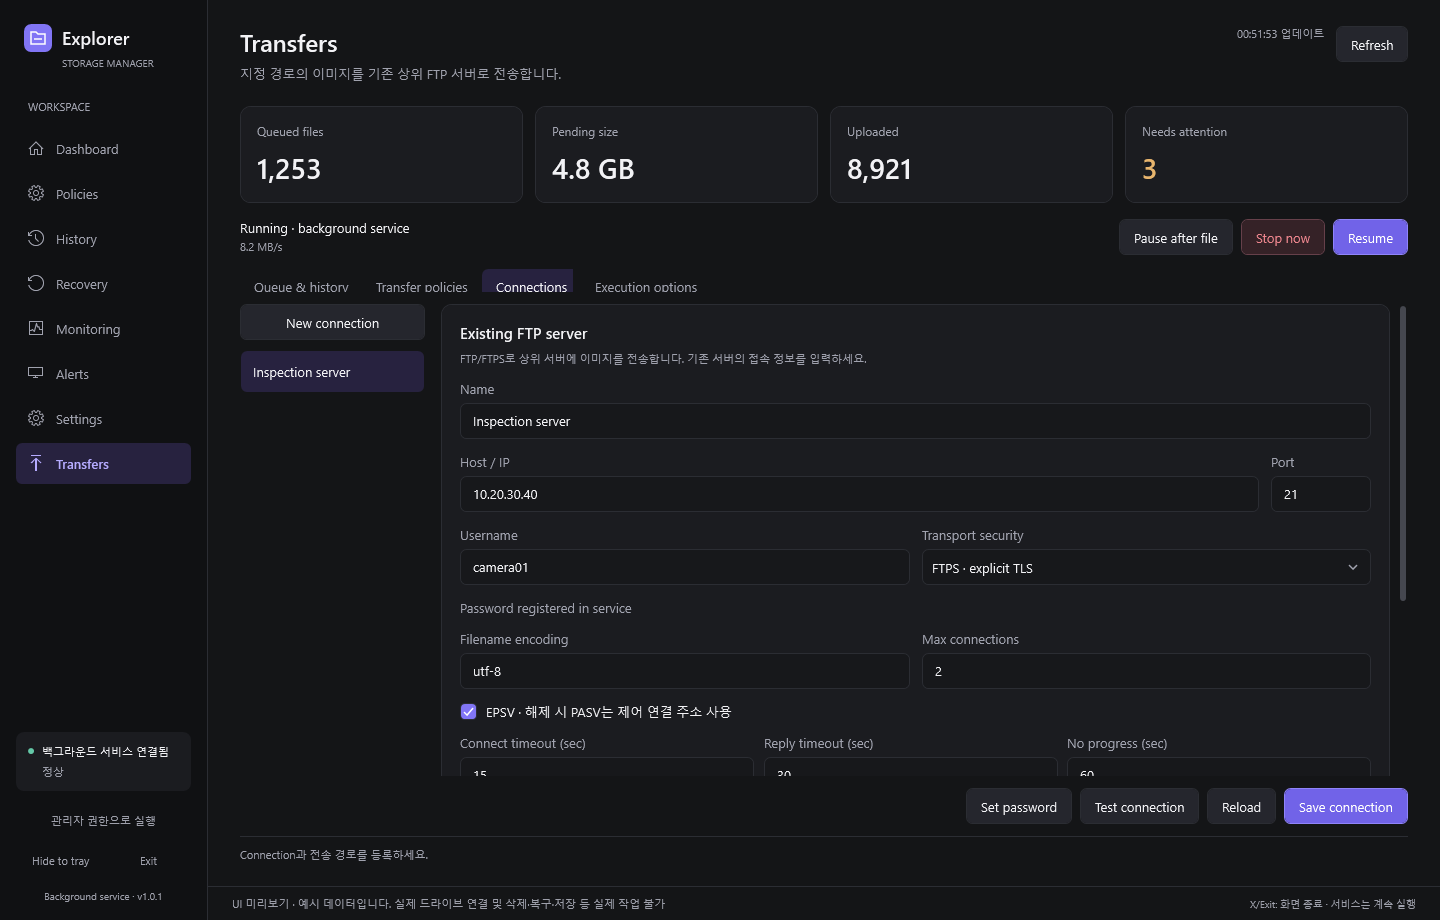
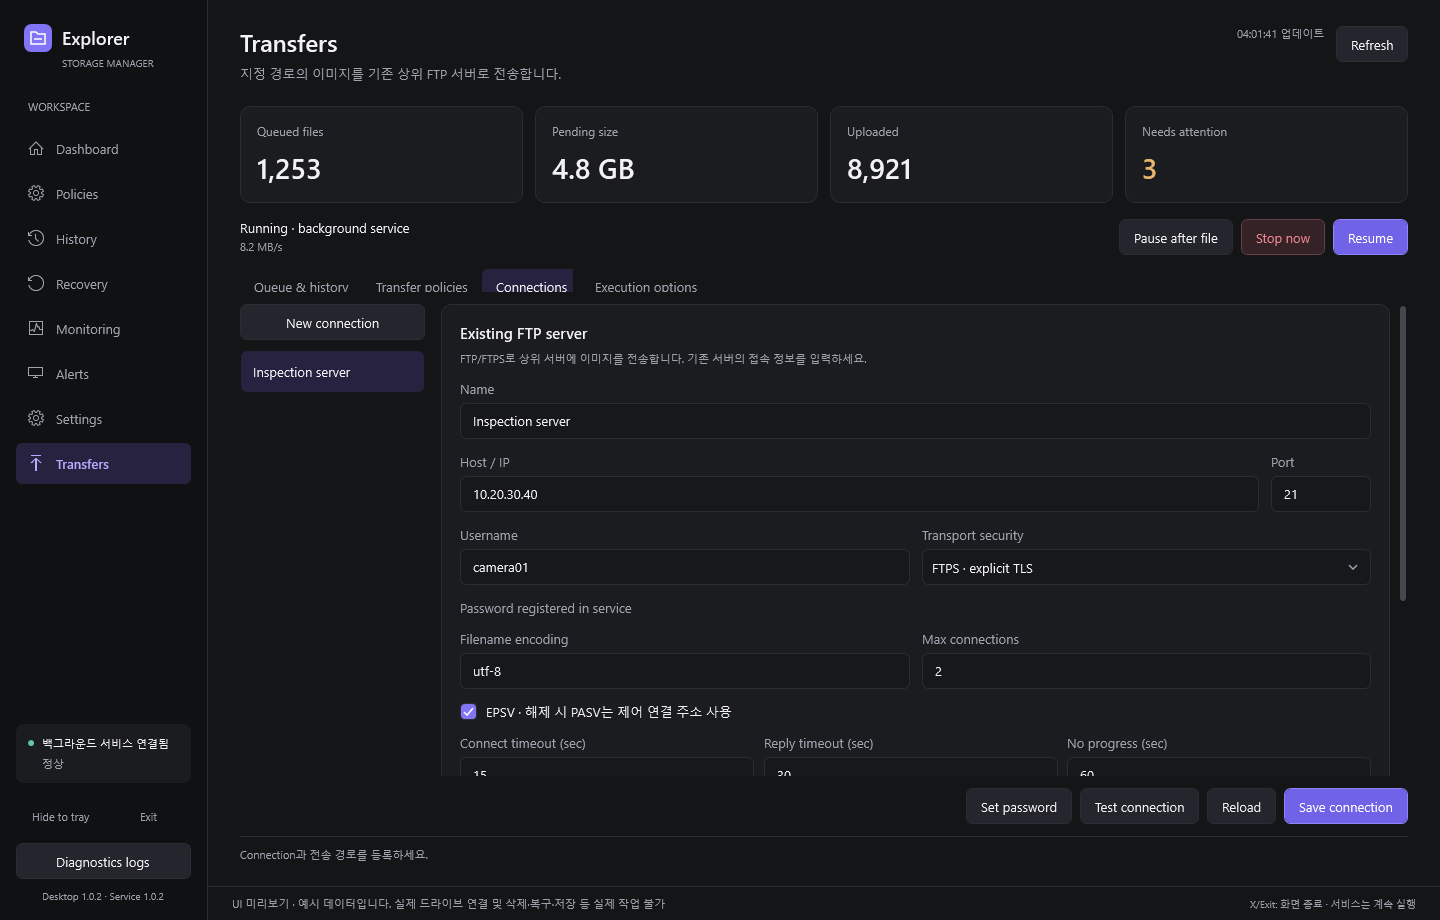
Document verified 1.0.2 upgrade and live desktop workflows [skip ci]

Changed region(s): [[0.0, 0.8826, 0.1562, 1.0], [0.0312, 0.7913, 0.125, 0.8522]]

diff --git a/README.md b/README.md
@@ -8,7 +8,7 @@ Dashboard·Policies·History·Recovery·Monitoring·Alerts·Settings·Transfers 
 
 ![Explorer Manager 개요](docs/images/overview.png)
 
-[Policies](docs/images/policies.png) · [Monitoring](docs/images/monitoring.png) · [Settings](docs/images/settings.png) · [Transfers](docs/images/transfers.png) · [UI 설계](docs/02-design/features/ui-refresh.design.md) · [검증 결과와 패키지](https://github.com/dmjeong/HardDisk-Manager/actions/runs/40428806793)
+[Policies](docs/images/policies.png) · [Monitoring](docs/images/monitoring.png) · [Settings](docs/images/settings.png) · [Transfers](docs/images/transfers.png) · [UI 설계](docs/02-design/features/ui-refresh.design.md) · [검증 결과와 패키지](https://github.com/dmjeong/HardDisk-Manager/actions/runs/40447002247)
 
 ## 실행 구성
 
@@ -98,7 +98,7 @@ CPU 사용률, 가용 RAM, 볼륨 용량, 디스크 읽기·쓰기 처리량/IOP
 
 Windows에서 Visual Studio 2022의 **.NET 데스크톱 개발** 구성과 **.NET Framework 4.8 SDK/타기팅 팩**을 설치합니다. 모든 프로젝트는 기존 .NET Framework 프로젝트 형식이며, .NET 8 런타임·SDK·타기팅 팩을 요구하지 않습니다. NuGet 패키지는 프로젝트를 처음 열 때 복원합니다.
 
-`ExplorerManager.sln`을 열고 `ExplorerManager.Desktop`을 시작 프로젝트로 지정합니다. F5 빌드는 Service/SensorHost와 Setup 파일도 준비합니다. 서비스가 없으면 실제 로컬 볼륨·CPU·RAM을 읽기 전용으로 보여 주며 **서비스 설치/시작**에서 관리자 실행과 설치를 진행할 수 있습니다. 정책 저장·정리·복구는 서비스 연결 후 동작합니다. 실행 중 서비스에 대한 연결 버튼은 서비스를 재설치하거나 RAM 캐시를 지우지 않습니다.
+Visual Studio를 관리자 권한으로 실행한 뒤 `ExplorerManager.sln`을 열고 `ExplorerManager.Desktop`을 시작 프로젝트로 지정합니다. F5 빌드는 Service/SensorHost와 Setup 파일도 준비합니다. 서비스가 없으면 실제 로컬 볼륨·CPU·RAM을 읽기 전용으로 보여 주며 **서비스 설치/시작**에서 관리자 실행과 설치를 진행할 수 있습니다. 정책 저장·정리·복구는 서비스 연결 후 동작합니다. 실행 중 서비스에 대한 연결 버튼은 서비스를 재설치하거나 RAM 캐시를 지우지 않습니다.
 
 개발자 PowerShell에서 솔루션 빌드와 .NET Framework 시험을 실행합니다. 시험 실행에는 Visual Studio Test Explorer/Test Tools가 필요합니다.
 
@@ -114,7 +114,7 @@ Windows에서 Visual Studio 2022의 **.NET 데스크톱 개발** 구성과 **.NE
 3. 이전 평가 결과가 남아 있으면 `.vs`와 각 프로젝트의 `bin`·`obj`를 지우고 솔루션을 다시 엽니다.
 4. NuGet 패키지 복원 후 다시 빌드합니다. .NET Framework 4.8 **개발 팩**은 런타임과 별개이므로 설치 관리자에서 확인합니다.
 
-솔루션의 모든 앱·라이브러리·시험 대상은 .NET Framework 4.8/x64입니다. CI는 .NET SDK 경로를 비활성화한 상태에서 Framework MSBuild로 빌드하고, 243개 시험, WPF 디자인 시점 참조 평가, 실제 NTFS 삭제·복구, 서비스 설치·IPC·8개 WPF 메뉴와 전송 내부 설정 화면의 기본/최소 크기 및 예시 데이터 렌더45장·제거 시험을 실행합니다. 실행 패키지는 `artifacts/ExplorerManager-win-x64.zip`입니다. 코드 서명은 `Build.ps1 -CertificateThumbprint ...`로 보유 인증서를 지정할 때 적용됩니다. 기본 CI 패키지는 서명되지 않습니다.
+솔루션의 모든 앱·라이브러리·시험 대상은 .NET Framework 4.8/x64입니다. CI는 .NET SDK 경로를 비활성화한 상태에서 Framework MSBuild로 빌드하고, 246개 시험, WPF 디자인 시점 참조 평가, 실제 NTFS 삭제·복구, 서비스 설치·IPC·8개 WPF 메뉴와 전송 내부 설정 화면의 기본/최소 크기 및 예시 데이터 렌더45장·제거 시험을 실행합니다. 실행 패키지는 `artifacts/ExplorerManager-win-x64.zip`입니다. 코드 서명은 `Build.ps1 -CertificateThumbprint ...`로 보유 인증서를 지정할 때 적용됩니다. 기본 CI 패키지는 서명되지 않습니다.
 
 ## 운영과 문서
 
@@ -124,7 +124,7 @@ Windows에서 Visual Studio 2022의 **.NET 데스크톱 개발** 구성과 **.NE
 - [기존 FTP/FTPS 서버 연동 상세 설계](docs/02-design/features/image-transfer.design.md)
 - [이미지 전송 구현·검증 결과](docs/04-report/image-transfer.report.md)
 - [운영 매뉴얼](docs/operations.md)
-- [Desktop 1.0.1 기본 동작 수정과 실제 UI 검증](docs/04-report/desktop-reliability.report.md)
+- [Desktop 1.0.2 수정·업데이트와 실제 UI 검증](docs/04-report/desktop-reliability.report.md)
 - [구현·검증 현황](docs/implementation-status.md)
 - [제3자 라이선스](THIRD-PARTY-NOTICES.md)
 

diff --git a/docs/04-report/desktop-reliability.report.md b/docs/04-report/desktop-reliability.report.md
@@ -1,4 +1,45 @@
-# Desktop 1.0.1 수정 결과
+# Desktop 1.0.2 수정 및 실제 설치 검증
+
+2026-10-27 · 검증 코드 `0534ab9` · [Windows CI](https://github.com/dmjeong/HardDisk-Manager/actions/runs/40447002247)
+
+사용자가 1.0.1에서도 동작 실패를 보고하여 신규 설치뿐 아니라 기존 설치 업데이트, 저장된 정책 편집, 실제 삭제·복구, 배포 실행기와 실패 복원으로 검증을 확대했다. 정확한 운영 PC 오류는 제공되지 않아 해당 PC의 해결을 직접 확인한 것은 아니다.
+
+## 수정한 원인
+
+- Dashboard의 고정 버전 문자열을 실제 assembly 버전으로 교체했다. Desktop/Service 버전이 다르면 연결된 상태에서도 업데이트 안내가 나타난다.
+- 모든 IPC가 관리자 토큰을 요구하는데 Desktop은 asInvoker로 실행하던 불일치를 수정했다. 일반 실행에서 UAC를 요청하며 Visual Studio 디버깅은 관리자 실행을 사용한다.
+- 주기적 갱신에서 PolicyEditor를 계속 새로 만들어 입력·오류 상태를 초기화하던 코드를 ID/version 기반으로 변경했다. 여러 정책의 미저장 초안을 유지하고 삭제 명령은 선택한 초안만 제거한다.
+- 작업 완료·캐시 변화 및 History 화면에서 이력을 갱신한다.
+- 실행 중 설치본을 덮어쓰지 않고 정확한 경로의 Desktop 종료 및 서비스 종료를 확인한 뒤 staged 파일로 교체한다. 실패 시 이전 바이너리를 복원하고 기존 실행 서비스를 다시 시작한다. 설정·정책·이력 데이터는 제거하지 않는다.
+- Setup.cmd가 설치 프로세스 자체의 완료를 기다리도록 했다. Uninstall도 Desktop 프로세스 종료를 확인한 뒤 파일을 제거한다.
+- 설치 transcript, Desktop 시작/오류 로그, Diagnostics logs 버튼을 제공한다. 요청 본문과 FTP 비밀번호는 로그에 쓰지 않는다. 선택적 센서/자동 시작 작업 등록 실패가 핵심 서비스 설치를 막지 않게 했다.
+
+## 검증 결과
+
+- Windows .NET Framework4.8/x64 빌드 및 WPF design-time 참조 평가 성공, **246/246 시험 통과**.
+- 서비스 없는 실제 Desktop: 로컬 볼륨/CPU 실측, 설치 안내, X 종료.
+- 실제 설치 버튼 → 인증 IPC → 물리 드라이브/CPU/disk I/O → 볼륨 선택 → 정책 오류 수정 → 저장/Preview.
+- 저장된 정책에 잘못된 숫자를 입력한 뒤 3초 polling이 지나도 입력값과 빨간 표시가 유지되며, 수정하면 정상 저장.
+- 실제 fixture 삭제, UI History의 DeletedConfirmed 갱신, RAM 복구 후 원본 바이트 일치, Settings 저장, Hide/Show/Exit.
+- 실제 1.0.1 소스를 빌드·설치하고 그 Desktop이 실행 중인 상태에서 업데이트. 새 서비스 버전 및 기존 정책/설정 보존 확인.
+- 동일 버전의 실행 중 설치본 재설치, 공백/한글 경로에서 배포 ZIP의 Setup.cmd 실행과 설치된 Desktop 시작 확인.
+- 서비스 의존성 DLL을 제거한 시험 패키지로 시작 실패 유도. 이전 DLL·바이너리 복원과 서비스 Running 상태 확인.
+- 실제/예시 WPF 화면45장, 바인딩 오류0건. 실제 서비스 설치·IPC·렌더·제거 모두 성공.
+- 보조 검증: macOS의 portable source 시험111개 통과, Framework4.8/C#7.3 의미 컴파일 통과.
+
+`desktop-offline.log`, `desktop-workflow.log`, `desktop-upgrade.log` 및 Windows 작업 로그에 각 PASS를 남겼다. 손상된 패키지의 실패는 의도한 rollback 시험이며 마지막 서비스 연동 시험은 복원 후 새로 설치한 정상 패키지로 통과했다.
+
+## 적용
+
+전체 ZIP을 압축 해제하고 **Setup.cmd**를 실행하면 기존 설치까지 함께 교체한다. Desktop/Service 버전은 왼쪽 아래에서 확인한다. 서비스 재시작으로 RAM 복구본이 사라지므로 필요한 파일을 먼저 복구한다. 데이터베이스의 정책·설정·이력은 유지된다. 설치/앱 진단은 `%LocalAppData%\ExplorerManager\Logs`에 저장된다.
+
+운영 PC의 실제 하드웨어 온도 센서와 상위 FTP 서버는 해당 장비/서버에서 검증해야 한다. 이 수정은 수신 서버나 프로토콜을 변경하지 않는다.
+
+---
+
+## 이전 1.0.1 검증 기록
+
+### Desktop 1.0.1 수정 결과
 
 2026-10-27 · 검증한 코드 `c581f87` · [Windows CI](https://github.com/dmjeong/HardDisk-Manager/actions/runs/40428806793)
 

diff --git a/docs/operations.md b/docs/operations.md
@@ -2,7 +2,7 @@
 
 ## 최초 설정
 
-Desktop은 서비스가 없거나 중지되면 상단에 원인을 표시하고 실제 로컬 볼륨·CPU·RAM을 읽기 전용으로 조회합니다. **서비스 설치/시작**은 관리자 실행 후 미설치 서비스를 설치하거나 중지된 서비스만 시작합니다. 전체 ZIP을 압축 해제해야 하며, F5 빌드는 Setup 폴더를 자동 생성합니다. 실행 중 서비스를 연결 목적으로 재설치하지 않습니다. 기존 설치의 프로그램 업데이트는 새 패키지 Install.ps1로 수행합니다.
+Desktop은 서비스가 없거나 중지되면 상단에 원인을 표시하고 실제 로컬 볼륨·CPU·RAM을 읽기 전용으로 조회합니다. **서비스 설치/시작**은 관리자 실행 후 미설치 서비스를 설치하거나 중지된 서비스만 시작합니다. 전체 ZIP을 압축 해제해야 하며, F5 빌드는 Setup 폴더를 자동 생성합니다. 실행 중 서비스를 연결 목적으로 재설치하지 않습니다. 기존 설치 업데이트는 새 ZIP의 **Setup.cmd**를 더블클릭하거나 새 패키지 Desktop의 **서비스 업데이트**를 사용합니다. Desktop과 Service 버전 불일치는 연결 중이어도 안내합니다. 일반 Desktop 실행도 필요한 관리자 토큰을 요청합니다.
 
 X/Exit는 UI를 종료합니다. Hide to tray만 창을 숨깁니다. Windows Service는 별개로 계속 실행하며, 관리자 재실행은 성공 시 기존 UI를 닫습니다.
 
@@ -61,7 +61,7 @@ Recovery에서 현재 캐시에 남은 항목을 선택합니다. 원래 위치 
 
 ## 업데이트와 제거
 
-새 패키지의 Install.ps1을 관리자 권한으로 실행합니다. 서비스 중지 시 RAM 캐시가 사라집니다. 제거는 Uninstall.ps1을 사용합니다. 정책과 이력은 ProgramData에 남습니다. 자동 시작은 설치한 운영자 계정의 ExplorerManager.Desktop 예약 작업으로 관리합니다.
+새 패키지를 완전히 압축 해제한 뒤 Setup.cmd를 실행합니다. 현재 설치된 Desktop만 닫고 두 서비스를 정지한 다음 파일을 교체합니다. 정책·설정·이력은 유지되며 교체 실패 시 이전 바이너리 복원과 서비스 재시작을 시도합니다. 서비스 중지 시 RAM 캐시가 사라집니다. 제거는 Uninstall.ps1을 사용합니다. 정책과 이력은 ProgramData에 남습니다. 자동 시작은 설치한 운영자 계정의 ExplorerManager.Desktop 예약 작업으로 관리합니다.
 
 72시간 연속 운전, 100만 파일·16볼륨의 대규모 부하, 실제 모델별 센서 정확도는 설치 장비에서 현장 인수 시험으로 확인합니다.
 
@@ -153,3 +153,7 @@ Notifications에서 잠금 알림의 Popup / Tray notification / Log only와 최
 Schedule의 요일은 자정 이후에도 시작 요일을 따릅니다. 시작 포함/종료 제외이며 종료24:00을 지원합니다. 예: Friday 22:30–06:15는 Saturday 06:14까지 포함합니다. 선택 요일이 없거나 HH:mm이 잘못되면 저장을 거부합니다. 설정 변경은 진행 중인 해당 정책을 중단합니다.
 
 History limit은10~102400 MiB, 기본2048 MiB입니다. 더 낮은 보관 기간/용량을 저장하면 정리를 실행하고 이후 주기적으로 유지합니다. 안전하게 제거할 수 있는 오래된 항목·성능 표본·확인된 알림부터 정리하고 복구·미완료·미해결 기록과 요청 재시도 영수증은 보호합니다. 이 보호 데이터 때문에 상한을 지킬 수 없으면 HistoryLimitProtected 이벤트를 기록합니다. 상한은 SQLite의 사용 중인 페이지 기준이며 파일의 물리 크기와 같지 않을 수 있습니다.
+
+## 진단 로그
+
+Desktop 왼쪽 아래 **Diagnostics logs**는 `%LocalAppData%\ExplorerManager\Logs`를 엽니다. `desktop.log`에 시작 버전·관리자 상태·IPC 오류를, `install-*.log`에 설치·업데이트·복원 결과를 남깁니다. 로그에 전송 비밀번호나 IPC 요청 본문은 기록하지 않습니다. 설치 실패 시 Setup.cmd는 창을 유지하며 로그 경로를 안내합니다. 저장된 정책의 숫자 오류와 여러 정책의 미저장 초안은 주기적 화면 갱신으로 초기화되지 않습니다.

diff --git a/docs/03-analysis/desktop-reliability.analysis.md b/docs/03-analysis/desktop-reliability.analysis.md
@@ -14,3 +14,21 @@
 정책 저장은 반환 version을 반영하고 저장 중 추가 편집과 이전 poll 응답을 구분한다. ComboBox의 빈 전이가 원래 볼륨 ID를 지우지 않는다. 드라이브 조회는 이동식 로컬 볼륨과 조회 실패 항목도 표시한다. NTFS·핸들·reparse·삭제 hash 검증은 유지한다.
 
 macOS 공유 코드 보조 시험108건과 Framework4.8/C#7.3 의미 컴파일을 통과했다. Windows 새 동작 시험은 예시 클라이언트를 쓰지 않고 실제 WPF 컨트롤과 SCM/인증 IPC/가상 서비스 계정을 사용한다. 최종 실행 결과는 완료 보고서에 기록한다.
+
+## 1.0.2 재점검
+
+이전 검증은 신규 설치와 한 정책의 성공 경로에 치우쳤다. 사용자의 재발 보고로 설치된 구버전, 실행 중인 설치본, 저장된 정책의 숫자 변환 오류를 포함하도록 확대했다.
+
+| 확인된 결함 | 수정 |
+|---|---|
+| Dashboard 버전이 1.0.0 상수여서 구버전 서비스 식별 불가 | 공유 assembly metadata를 반환하고 UI에 두 버전과 업데이트 안내 표시 |
+| 실행 중 Desktop 파일을 설치 프로그램이 바로 덮어씀 | 설치 경로가 일치하는 Desktop 종료, 서비스 종료 대기, 사전 staging/backup, 실패 복원 |
+| asInvoker로 실행한 UI의 모든 서비스 명령이 관리자 인증에서 거부됨 | WPF manifest가 시작 시 관리자 토큰 요청 |
+| 3초 polling마다 저장된 PolicyEditor를 교체하여 변환 실패 텍스트/입력 상태 초기화 | ID/version reconciliation으로 동일 버전 editor 유지 |
+| 선택한 정책만 IsDirty 검사하여 다른 미저장 초안 유실 | 모든 새/dirty editor 유지, 정책 삭제도 선택한 editor만 제거 |
+| History를 최초 한 번만 조회해 작업 후 결과가 비어 보임 | 실행 상태/캐시 변화 및 History 화면의 주기적 갱신 |
+| 설치 창이 닫히면 실패 원인 유실 | 설치 transcript와 회전 Desktop 로그, Diagnostics logs 버튼 |
+
+1차 Windows 검증의 삭제 workflow는 시험 threshold를 실제 볼륨보다 크게 설정해 보호 규칙에 차단됐다. 보호를 완화하지 않고 유효한 시험 threshold로 수정했다. 운영 PC의 정확한 재발 오류는 아직 제공되지 않았으므로 이 분석은 코드에서 확인한 결함과 Windows 재현 결과에 한정한다.
+
+추가한 실제 배포 시험에서 신규 Setup.cmd의 `Start-Process -Wait`가 설치 프로그램뿐 아니라 실행된 Desktop의 종료까지 기다리는 문제가 확인됐다. 설치 프로세스 자체의 `WaitForExit`로 바꿨다. 기존 Uninstall.ps1도 Desktop을 Stop-Process한 직후 파일을 지워 잠금 오류가 발생했으므로, 정확한 설치 경로의 Desktop 종료를 확인한 뒤 제거한다. 이 두 결과는 단위 시험만으로는 드러나지 않았고 실행 중 설치본/배포 ZIP 시험으로 확인했다.
